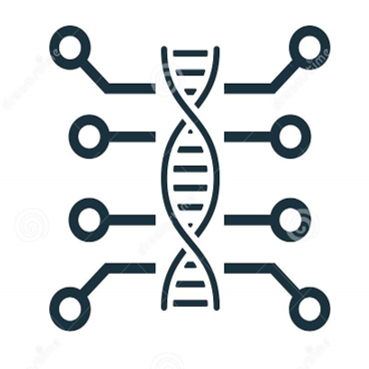
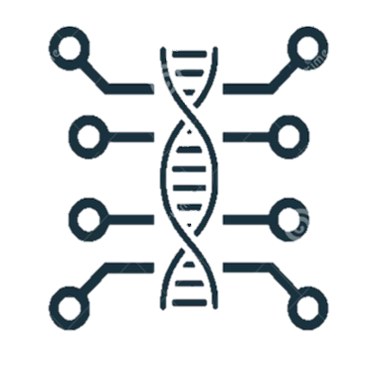
minor adjustment on pictures and params

diff --git a/content/post/IDEA/index.md b/content/post/IDEA/index.md
@@ -1,0 +1,13 @@
+---
+title: IDEA, a web server for Interactive Differential 2 Expression Analysis with R Packages
+date: 2020-12-02
+image:
+  focal_point: "top"
+---
+
+Congratulations.
+
+<!--more-->
+
+High-throughput sequencing technology is rapidly becoming the standard method for measuring gene expression at the transcriptional level. One of the main goals of such work is to identify differentially expressed genes under two or more conditions. A number of computational tools , such as DESeq (Anders and Huber 2010) (updated as DESeq2 (Love, Huber et al. 2014)), edgeR (Robinson, McCarthy et al. 2010, Zhou, Lindsay et al. 2014), NOISeq (Tarazona, García-Alcalde et al. 2011), PoissonSeq (Li, Witten et al. 2011), and SAMseq (samr) (Li and Tibshirani 2013) and Cuffdiff (Trapnell, et al., 2013) have been developed for the analysis of differential gene expression from patterns in RNA-seq data. Most of these tools are implemented in R language, which is commonly used for the analysis of high-dimensional expression data. However, a fairly high level of programing skill is required when applying these R tools to screen out differentially expressed genes, greatly hindering the application of these tools since many biology researchers have little programing experience. Beyond this problem, due to a lack of an interactive interface in these tools, it is inconvenient to adjust the analytical parameters, even for advanced users. Moreover, since different packages generate inconsistent results, an interactive platform that combines these tools together is necessary for obtaining more solid analysis results.
+To address the above issues, here we introduce the Interactive Differential Expression Analyzer (IDEA), a Shiny-based web application dedicated to the identification of differential expression genes in an interactive way. IDEA was built as a user-friendly and highly interactive utility using the Shiny (RStudio Inc. 2014) package in R. Currently, five relevant R packages are integrated into IDEA. IDEA is capable of visualizing the results with plenty of charts and tables, as well as providing great ease of interaction during the course of the analysis.

diff --git a/content/post/LncPipe/index.md b/content/post/LncPipe/index.md
@@ -1,0 +1,10 @@
+---
+title: LncPipe, a Nextflow-based pipeline for comprehensive analyses of long non-coding RNAs from RNA-seq datasets
+date: 2020-12-01
+---
+
+Congratulations.
+
+<!--more-->
+
+Recently, long noncoding RNA molecules (lncRNA) captured widespread attentions for their critical roles in diverse biological process and important implications in variety of human diseases and cancers. Identification and profiling of lncRNAs is a fundamental step to advance our knowledge on their function and regulatory mechanisms. However, RNA sequencing based lncRNA discovery is currently limited due to complicated operations and implementation of the tools involved. Therefore, we present a one-stop multi-tool integrated pipeline called LncPipe focused on characterizing lncRNAs from raw transcriptome sequencing data. The pipeline was developed based on a popular workflow framework Nextflow, composed of four core procedures including reads alignment, assembly, identification and quantification. It contains various unique features such as well-designed lncRNAs annotation strategy, optimized calculating efficiency, diversified classification and interactive analysis report. LncPipe allows users additional control in interuppting the pipeline, resetting parameters from command line, modifying main script directly and resume analysis from previous checkpoint.

diff --git a/content/authors/Yanxing Cheng/_index.md b/content/authors/Yanxing Cheng/_index.md
@@ -1,0 +1,53 @@
+---
+# Display name
+title: Yanxing Chen
+
+# Username (this should match the folder name)
+authors:
+- Yanxing Chen
+
+# Is this the primary user of the site?
+superuser: false
+
+# Role/position
+role: Graduate Student
+
+# Organizations/Affiliations
+organizations:
+- name: Sun Yat-sen University
+  url: ""
+
+# Short bio (displayed in user profile at end of posts)
+bio: ''
+
+interests:
+- Cancer Bioinformatics
+- Biomarker Discovery
+- Cancer Immunology
+
+education: ''
+
+# Social/Academic Networking
+# For available icons, see: https://sourcethemes.com/academic/docs/page-builder/#icons
+#   For an email link, use "fas" icon pack, "envelope" icon, and a link in the
+#   form "mailto:your-email@example.com" or "#contact" for contact widget.
+# social:
+# - icon: envelope
+#   icon_pack: fas
+#   link: 'xiangsj@sysucc.org.cn'
+# Link to a PDF of your resume/CV from the About widget.
+# To enable, copy your resume/CV to `static/files/cv.pdf` and uncomment the lines below.
+# - icon: cv
+#   icon_pack: ai
+#   link: files/cv.pdf
+
+# Enter email to display Gravatar (if Gravatar enabled in Config)
+email: "chenyh1@sysucc.org.cn"
+
+# Organizational groups that you belong to (for People widget)
+#   Set this to `[]` or comment out if you are not using People widget.
+user_groups:
+- Graduate Students
+---
+
+

diff --git a/content/authors/Xin Wang/_index.md b/content/authors/Xin Wang/_index.md
@@ -1,0 +1,52 @@
+---
+# Display name
+title: Xin Wang
+
+# Username (this should match the folder name)
+authors:
+- Xin Wang
+
+# Is this the primary user of the site?
+superuser: false
+
+# Role/position
+role: Graduate Student
+
+# Organizations/Affiliations
+organizations:
+- name: Carnegie Mellon University 
+  url: ""
+
+# Short bio (displayed in user profile at end of posts)
+bio: ''
+
+interests:
+- Cancer Bioinformatics
+- Tool Development
+
+education: ''
+
+# Social/Academic Networking
+# For available icons, see: https://sourcethemes.com/academic/docs/page-builder/#icons
+#   For an email link, use "fas" icon pack, "envelope" icon, and a link in the
+#   form "mailto:your-email@example.com" or "#contact" for contact widget.
+# social:
+# - icon: envelope
+#   icon_pack: fas
+#   link: 'xiangsj@sysucc.org.cn'
+# Link to a PDF of your resume/CV from the About widget.
+# To enable, copy your resume/CV to `static/files/cv.pdf` and uncomment the lines below.
+# - icon: cv
+#   icon_pack: ai
+#   link: files/cv.pdf
+
+# Enter email to display Gravatar (if Gravatar enabled in Config)
+email: "xinwang3@andrew.cmu.edu"
+
+# Organizational groups that you belong to (for People widget)
+#   Set this to `[]` or comment out if you are not using People widget.
+user_groups:
+- Graduate Students
+---
+
+

diff --git a/content/home/welcome.md b/content/home/welcome.md
@@ -5,10 +5,9 @@
 
 widget: hero  # See https://wowchemy.com/docs/page-builder/
 headless: true  # This file represents a page section.
-weight: 10  # Order that this section will appear.
+weight: 20  # Order that this section will appear.
 title: |
-  QiZhao  
-  Research Group
+  Qizhao Lab
 hero_media: welcome.jpg
 design:
   # Choose how many columns the section has. Valid values: 1 or 2.
@@ -20,4 +19,4 @@ design:
 
 <br>
 
-The **QiZhao Research Group** has been a center of  for Cancer Bioinformatics research, teaching, and practice.
+The **Qizhao Lab** is a research group that focuses on Cancer Bioinformatics research and tool development. 

diff --git a/content/home/image.md b/content/home/image.md
@@ -10,17 +10,17 @@ active: true
 headless: true
 
 # Order that this section appears on the page.
-weight: 30
+weight: 10
 
-title:
-subtitle:
+title:  
+subtitle: 
 
 design:
   columns: "1"
   background:
     image: coders.jpg
-    image_darken: 0
-    image_parallax: false
+    image_darken: 1.0
+    image_parallax: true
     image_position: center
     image_size: cover
     text_color_light: true
@@ -29,3 +29,5 @@ design:
 advanced:
   css_class: fullscreen
 ---
+
+Welcome to **Qizhao Lab** of Sun Yat-Sen University Cancer Center.

diff --git a/content/_index.md b/content/_index.md
@@ -1,0 +1,14 @@
+---
+title: Recent & Upcoming Events
+
+# View.
+#   1 = List
+#   2 = Compact
+#   3 = Card
+view: 2
+
+# Optional header image (relative to `static/media/` folder).
+header:
+  caption: ""
+  image: ""
+---

diff --git a/content/home/news.md b/content/home/news.md
@@ -2,9 +2,9 @@
 # Documentation: https://wowchemy.com/docs/page-builder/
 widget: pages
 headless: true
-weight: 20
+weight: 30
 
-title: Latest News
+title: Researches
 subtitle:
 
 content:
